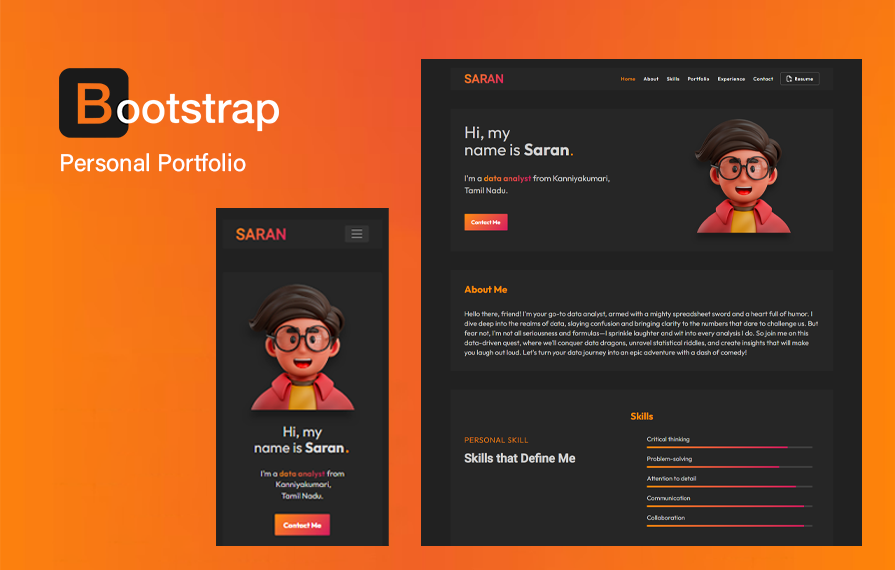
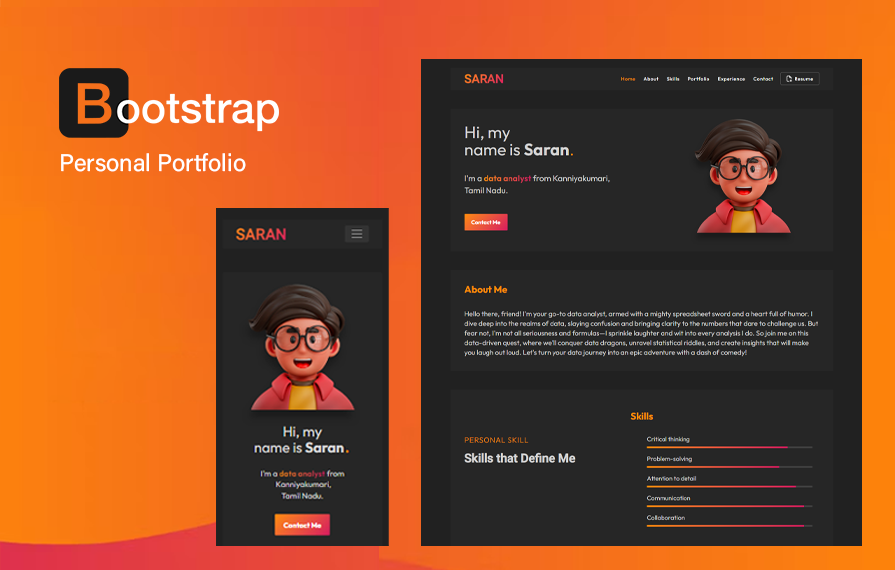
Update project main and thumbnail image

Changed region(s): [[0.0, 0.8947, 0.4223, 1.0]]

diff --git a/public/project.html b/public/project.html
@@ -72,67 +72,9 @@
                 </div>
             </header>
             <main>
-                <!-- <section class="frame p-0">
-
-                    <div class="swiper mySwiper">
-                        <div class="swiper-wrapper">
-                            <div class="swiper-slide">
-                                <div class="box bg-red-400 flex justify-center">
-                                    <img src="images/projects/dash1-full.png" alt="">
-                                </div>
-                            </div>
-                            <div class="swiper-slide">
-                                <div class="box bg-red-400 flex justify-center">
-                                    <img src="images/projects/dash1-full.png" alt="">
-                                </div>
-                            </div>
-                            <div class="swiper-slide">
-                                <div class="box bg-red-400 flex justify-center">
-                                    <img src="images/projects/dash1-full.png" alt="">
-                                </div>
-                            </div>
-                            <div class="swiper-slide">
-                                <div class="box bg-red-400 flex justify-center">
-                                    <img src="images/projects/dash1-full.png" alt="">
-                                </div>
-                            </div>
-                            <div class="swiper-slide">
-                                <div class="box bg-red-400 flex justify-center">
-                                    <img src="images/projects/dash1-full.png" alt="">
-                                </div>
-                            </div>
-                            <div class="swiper-slide">
-                                <div class="box bg-red-400 flex justify-center">
-                                    <img src="images/projects/dash1-full.png" alt="">
-                                </div>
-                            </div>
-                        </div>
-                        <div class="swiper-button-next"></div>
-                        <div class="swiper-button-prev"></div>
-                        <div class="swiper-pagination"></div>
-                    </div>
-                    <div class="details mt-8 px-12 pb-12 flex flex-col xl:flex-row space justify-between">
-                        <div class="date py-4">
-                            <h3>Date</h3>
-                            <h4>6, August 2022</h4>
-                        </div>
-                        <div class="role py-4">
-                            <h3>Role</h3>
-                            <h4>Developer</h4>
-                        </div>
-                        <div class="url py-4">
-                            <h3>Url</h3>
-                            <h4>its-saran.github.io/portfolio/</h4>
-                        </div>
-                        <div class="client py-4">
-                            <h3>Source</h3>
-                            <a href="https://its-saran.github.io/portfolio/">Github</a>
-                        </div>
-                    </div>
-                </section> -->
                 <section class="frame mt-4">
                     <div class="project-image 2xl:px-8 py-2">
-                        <img class="rounded-lg" src="images/projects/boot_2.png" alt="">
+                        <img class="rounded-lg" src="images/projects/boot.png" alt="">
                     </div>
                     <article class="prose max-w-none mt-14 2xl:px-8 pb-12 flex flex-col xl:flex-row">
                         <div class="project-about xl:w-7/12  2xl:w-3/5">
@@ -220,17 +162,6 @@
         </div>
         <script src="https://cdn.jsdelivr.net/npm/swiper@10/swiper-bundle.min.js"></script>
         <script src="js/script.js"></script>
-        <script>
-            const swiper = new Swiper(".mySwiper", {
-                pagination: {
-                    el: ".swiper-pagination",
-                    dynamicBullets: true,
-                },
-                navigation: {
-                    nextEl: ".swiper-button-next",
-                    prevEl: ".swiper-button-prev",
-                },
-            });
-        </script>
+        <script src="/js/swiper.js"></script>
     </body>
 </html>

diff --git a/public/projects/svelte-portfolio.html b/public/projects/svelte-portfolio.html
@@ -132,7 +132,7 @@
                 </section> -->
                 <section class="frame mt-4">
                     <div class="project-image 2xl:px-8 py-2">
-                        <img class="rounded-lg" src="../images/projects/boot_2.png" alt="">
+                        <img class="rounded-lg border border-white border-opacity-20" src="../images/projects/svelte.png" alt="">
                     </div>
                     <article class="prose max-w-none mt-14 2xl:px-8 pb-12 flex flex-col xl:flex-row">
                         <div class="project-about xl:w-7/12  2xl:w-3/5">
@@ -220,17 +220,6 @@
         </div>
         <script src="https://cdn.jsdelivr.net/npm/swiper@10/swiper-bundle.min.js"></script>
         <script src="../js/script.js"></script>
-        <script>
-            const swiper = new Swiper(".mySwiper", {
-                pagination: {
-                    el: ".swiper-pagination",
-                    dynamicBullets: true,
-                },
-                navigation: {
-                    nextEl: ".swiper-button-next",
-                    prevEl: ".swiper-button-prev",
-                },
-            });
-        </script>
+        <script src="../js/swiper.js"></script>
     </body>
 </html>

diff --git a/public/projects/bootstrap-portfolio.html b/public/projects/bootstrap-portfolio.html
@@ -132,7 +132,7 @@
                 </section> -->
                 <section class="frame mt-4">
                     <div class="project-image 2xl:px-8 py-2">
-                        <img class="rounded-lg" src="../images/projects/boot.png" alt="">
+                        <img class="rounded-lg border border-white border-opacity-20" src="../images/projects/boot_1.png" alt="">
                     </div>
                     <article class="prose max-w-none mt-14 2xl:px-8 pb-12 flex flex-col xl:flex-row">
                         <div class="project-about xl:w-7/12  2xl:w-3/5">
@@ -220,17 +220,6 @@
         </div>
         <script src="https://cdn.jsdelivr.net/npm/swiper@10/swiper-bundle.min.js"></script>
         <script src="../js/script.js"></script>
-        <script>
-            const swiper = new Swiper(".mySwiper", {
-                pagination: {
-                    el: ".swiper-pagination",
-                    dynamicBullets: true,
-                },
-                navigation: {
-                    nextEl: ".swiper-button-next",
-                    prevEl: ".swiper-button-prev",
-                },
-            });
-        </script>
+        <script src="../js/swiper.js"></script>
     </body>
 </html>

diff --git a/public/projects/tailwind-portfolio.html b/public/projects/tailwind-portfolio.html
@@ -132,7 +132,7 @@
                 </section> -->
                 <section class="frame mt-4">
                     <div class="project-image 2xl:px-8 py-2">
-                        <img class="rounded-lg" src="../images/projects/boot_2.png" alt="">
+                        <img class="rounded-lg border border-white border-opacity-20" src="../images/projects/tail.png" alt="">
                     </div>
                     <article class="prose max-w-none mt-14 2xl:px-8 pb-12 flex flex-col xl:flex-row">
                         <div class="project-about xl:w-7/12  2xl:w-3/5">
@@ -220,17 +220,6 @@
         </div>
         <script src="https://cdn.jsdelivr.net/npm/swiper@10/swiper-bundle.min.js"></script>
         <script src="../js/script.js"></script>
-        <script>
-            const swiper = new Swiper(".mySwiper", {
-                pagination: {
-                    el: ".swiper-pagination",
-                    dynamicBullets: true,
-                },
-                navigation: {
-                    nextEl: ".swiper-button-next",
-                    prevEl: ".swiper-button-prev",
-                },
-            });
-        </script>
+        <script src="../js/swiper.js"></script>
     </body>
 </html>

diff --git a/public/index.html b/public/index.html
@@ -243,7 +243,7 @@
                                         </div>
                                     </div>
                                 </a>
-                            </div>
+                            </div>                 
                             <div class="project python " data-category="python">
                                 <a href="project.html">
                                     <div class="thumbnail">

diff --git a/public/js/swiper.js b/public/js/swiper.js
@@ -1,0 +1,10 @@
+const swiper = new Swiper(".mySwiper", {
+    pagination: {
+        el: ".swiper-pagination",
+        dynamicBullets: true,
+    },
+    navigation: {
+        nextEl: ".swiper-button-next",
+        prevEl: ".swiper-button-prev",
+    },
+});
